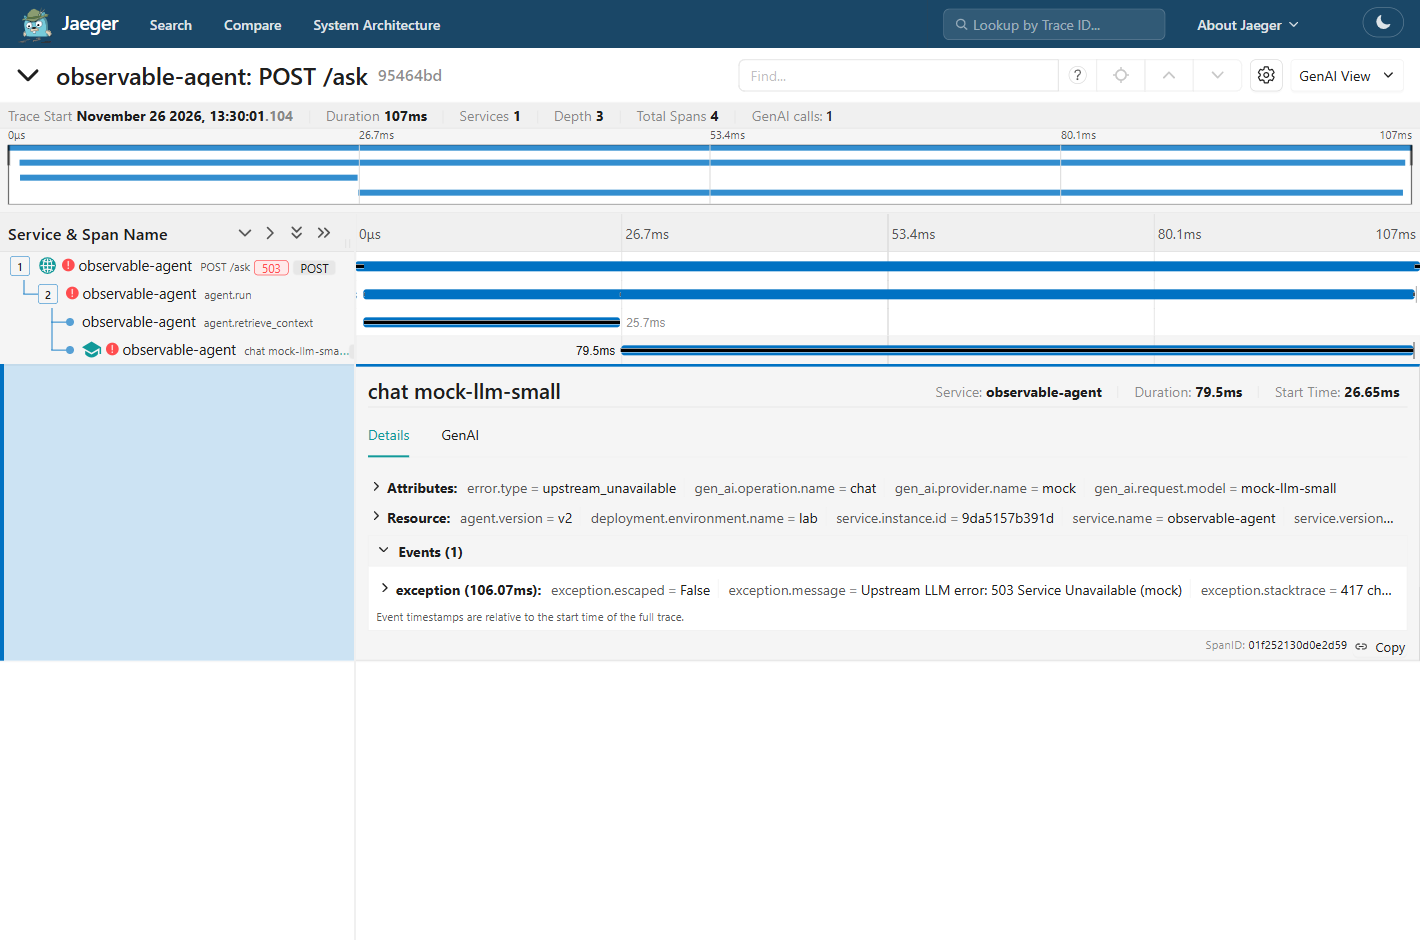
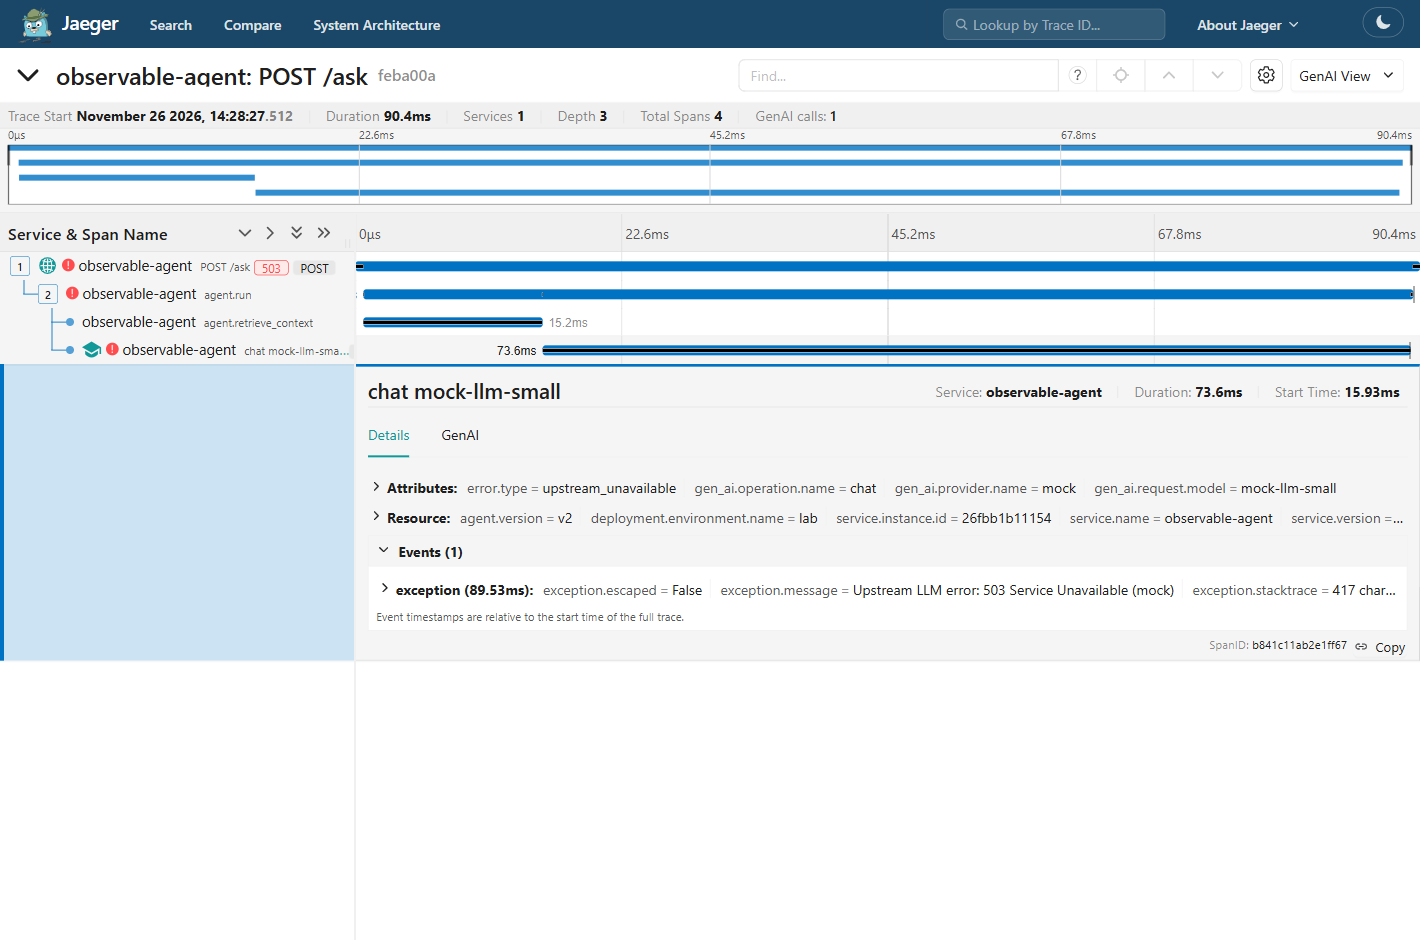
Refresh K5 observability and scaling evidence

diff --git a/BENCHMARK_REPORT.md b/BENCHMARK_REPORT.md
@@ -70,11 +70,13 @@ Sources: `reports/eval_v1.json`, `eval_v2.json`, `eval_v2_fixed.json`.
 
 ### Exercise 7.4: Đọc dashboard
 
-Ảnh Grafana ghi nhận khoảng 27,9 request/s, error rate 20,18%, p95 khoảng 1,92 giây và avg khoảng 0,7 giây tại thời điểm chụp. Chênh lệch giữa avg và p95 cho thấy một nhóm request có tail latency cao dù phần lớn request nhanh hơn; percentile phản ánh trải nghiệm của nhóm request chậm rõ hơn số trung bình. Error rate cao xuất hiện trong thí nghiệm alerts/chaos, không phải trong các batch load test local ở phần 2.
+Ảnh Grafana ghi lại lượt Locust với 30 user, tăng 5 user/giây, từ 14:28:12 đến 14:30:10 GMT+7 ngày 26/11/2026. Dashboard hiển thị 19,0 request/giây, error rate 0,57% và p95 296,48 ms. Mẫu Prometheus lúc 14:29:35 cho thấy latency trung bình 237,46 ms. p95 cao hơn trung bình vì một phần request mất nhiều thời gian xử lý hơn. Tỷ lệ lỗi trên dashboard lấy theo cửa sổ một phút, còn Locust ghi nhận 21 lỗi 503 trên 2.187 request `/ask` (0,96%) trong cả lượt. Trace và log bên dưới xác nhận lỗi 503 đến từ mock LLM.
 
-Dashboard có panel `Requests/s theo instance` để so sánh traffic giữa hai replica, nhưng ảnh đã nộp không hiển thị panel đó. Vì vậy bằng chứng hiện có chưa đủ để kết luận traffic được chia đều giữa hai replica.
+Panel `Requests/s theo instance` cho thấy cả ba replica đều nhận tải. Lúc 14:29:35 GMT+7, truy vấn của panel ghi nhận 6,16, 5,95 và 6,25 request/giây lần lượt ở `172.22.0.5:8000`, `172.22.0.6:8000` và `172.22.0.7:8000`. Ở mẫu này, Nginx phân tải gần đều giữa ba replica, với chênh lệch khoảng 0,31 request/giây giữa replica cao nhất và thấp nhất.
 
-Input tokens/s thường lớn hơn output tokens/s vì mỗi request gửi prompt cùng context/knowledge vào model, trong khi output chỉ là phần câu trả lời được sinh ra. Qua Nginx, `curl http://localhost:8080/metrics` trả HTTP 404 theo cấu hình. Nginx chặn route này để không công khai thông tin metrics; Prometheus scrape trực tiếp agent trong mạng Docker nội bộ.
+Mẫu Prometheus lúc 14:29:35 ghi nhận khoảng 1.335 input tokens/giây và 711 output tokens/giây. Input gồm prompt cùng ngữ cảnh truy xuất, còn output là câu trả lời được sinh ra. `curl http://localhost:8080/metrics` qua Nginx trả HTTP 404. Prometheus truy cập trực tiếp `/metrics` của agent qua mạng Docker nội bộ để thông tin vận hành không bị công khai qua proxy.
+
+### Alerts và chaos
 
 | Thí nghiệm | Alert firing | Thời gian tới firing | Panel rõ nhất |
 |---|---|---|---|
@@ -102,18 +104,22 @@ Trích các trường từ dòng log `http_request` cùng `trace_id`.
 }
 ```
 
-Trace lỗi `95464bd25705236194af707dcaf2795c` trả HTTP 503 sau khoảng 107 ms. Span `chat mock-llm-small` có event `exception` với thông báo `Upstream LLM error: 503 Service Unavailable (mock)`.
+Trace lỗi `feba00a88914219a65c79e3465701e00` trả HTTP 503 sau 90,4 ms trong Jaeger. Span `chat mock-llm-small` mất 73,6 ms và có event `exception` với thông báo `Upstream LLM error: 503 Service Unavailable (mock)`. Dòng log HTTP cùng trace ghi thời gian 90,0 ms.
+
+```json
+{"ts":"2026-11-26T07:28:27.602576+00:00","level":"INFO","service":"observable-agent","instance":"26fbb1b11154","event":"http_request","trace_id":"feba00a88914219a65c79e3465701e00","span_id":"d8add24f97828c77","request_id":"88bbf9c9ed78","method":"POST","route":"/ask","status":503,"ms":90.0}
+```
 
 ## 5. Benchmark scaling
 
 | Số instance | RPS | p50 (ms) | p95 (ms) | p99 (ms) | Failures |
 |---:|---:|---:|---:|---:|---:|
-| 1 | 66.33 | 190 | 220 | 1700 | 77 / 7,892 (0.97%) |
-| 3 | 66.19 | 190 | 220 | 1700 | 62 / 7,888 (0.79%) |
+| 1 | 66.27 | 190 | 220 | 1700 | 78 / 7,884 (0.99%) |
+| 3 | 66.19 | 190 | 220 | 1700 | 76 / 7,886 (0.96%) |
 
 Sources: `benchmark-results/scale_1_stats.csv`, `scale_3_stats.csv`.
 
-**Giải thích:** Mỗi lượt chạy 100 user, ramp 10 user/s trong 2 phút. Bảng dùng dòng `Aggregated` của CSV. RPS gần như giữ nguyên từ 66,33 đến 66,19 và p99 vẫn 1.700 ms. Tỷ lệ lỗi trong hai lượt lần lượt là 0,97% và 0,79%. Với một lượt cho mỗi cấu hình và lỗi mock được mô phỏng ngẫu nhiên, dữ liệu chưa cho thấy tăng replica làm giảm lỗi hay cải thiện thông lượng ở mức tải này.
+**Giải thích:** Chạy lại hai lượt với 100 user, tăng 10 user/giây, trong 2 phút mỗi lượt. Dùng `docker compose exec -T locust locust ...` trong container Locust đang chạy để giữ số replica đã chọn. Bảng lấy dòng `Aggregated` từ CSV của Locust. Thông lượng gần như giữ nguyên, từ 66,27 xuống 66,19 request/giây, và p99 đều là 1.700 ms. Lỗi trong hai lượt đều là HTTP 503 trên `/ask`, với tỷ lệ lần lượt 0,99% và 0,96%. Với một lượt cho mỗi cấu hình và lỗi mock ngẫu nhiên, dữ liệu chưa cho thấy tăng replica cải thiện thông lượng hoặc tỷ lệ lỗi ở mức tải này.
 
 ## 6. Kết luận
 

diff --git a/MISSION_ANSWERS.md b/MISSION_ANSWERS.md
@@ -183,7 +183,7 @@ Benchmark local chạy 300 request mỗi lượt ở bốn mức concurrency và
 | 25–26/11/2026 | Đọc rubric, lập kế hoạch và phân chia các phần của lab. | Codex đối chiếu yêu cầu, đề xuất thứ tự chạy và hỗ trợ soạn báo cáo. | Các kết quả runtime được ghi ở từng Part theo lệnh đã chạy. |
 | 25–26/11/2026 | Hoàn thiện agent Part 6 và kiểm tra cấu hình production. | Codex dùng subagent hỗ trợ triển khai code và chạy checker. | Xem output checker ở trên. |
 | 26/11/2026 | Deploy agent lên Railway và đo Part 7. | Codex hỗ trợ deploy, kiểm tra HTTP, chạy benchmark và tổng hợp bằng chứng. | Sinh viên xác nhận đăng nhập Railway trực tiếp. Xem kết quả deploy trong `DEPLOYMENT.md` và các số đo trong `BENCHMARK_REPORT.md`. |
+| 26/11/2026 | Bổ sung câu trả lời Part 7 sau khi rà rubric K5. | Codex đối chiếu Exercise 7.4, quality gate và bằng chứng Grafana, cập nhật giải thích trong báo cáo benchmark. | Codex đối chiếu số liệu với ảnh và báo cáo hiện có. |
+| 26/11/2026 | Chạy lại observability stack và cập nhật bằng chứng. | Codex chạy Locust, truy vấn Prometheus, đối chiếu log với Jaeger và cập nhật báo cáo. | Kết quả và ảnh từ lượt chạy lại nằm trong `BENCHMARK_REPORT.md`. |
 
 Phần sinh viên tự thực hiện: đăng nhập Railway, mở project `k5-day14`, kiểm tra sơ đồ dịch vụ thấy `agent` và `Redis` đều Online, rồi kiểm tra deployment `c40f1f15` ở trạng thái Active và log `/health`, `/ready` trả HTTP 200. Ảnh chụp dashboard và deployment được lưu trong `screenshots/`.
-
-| 26/11/2026 | Bổ sung câu trả lời Part 7 sau khi rà rubric K5. | Codex đối chiếu Exercise 7.4, quality gate và bằng chứng Grafana, cập nhật giải thích trong báo cáo benchmark. | Đã kiểm tra diff và đối chiếu số liệu với ảnh/report hiện có. |
